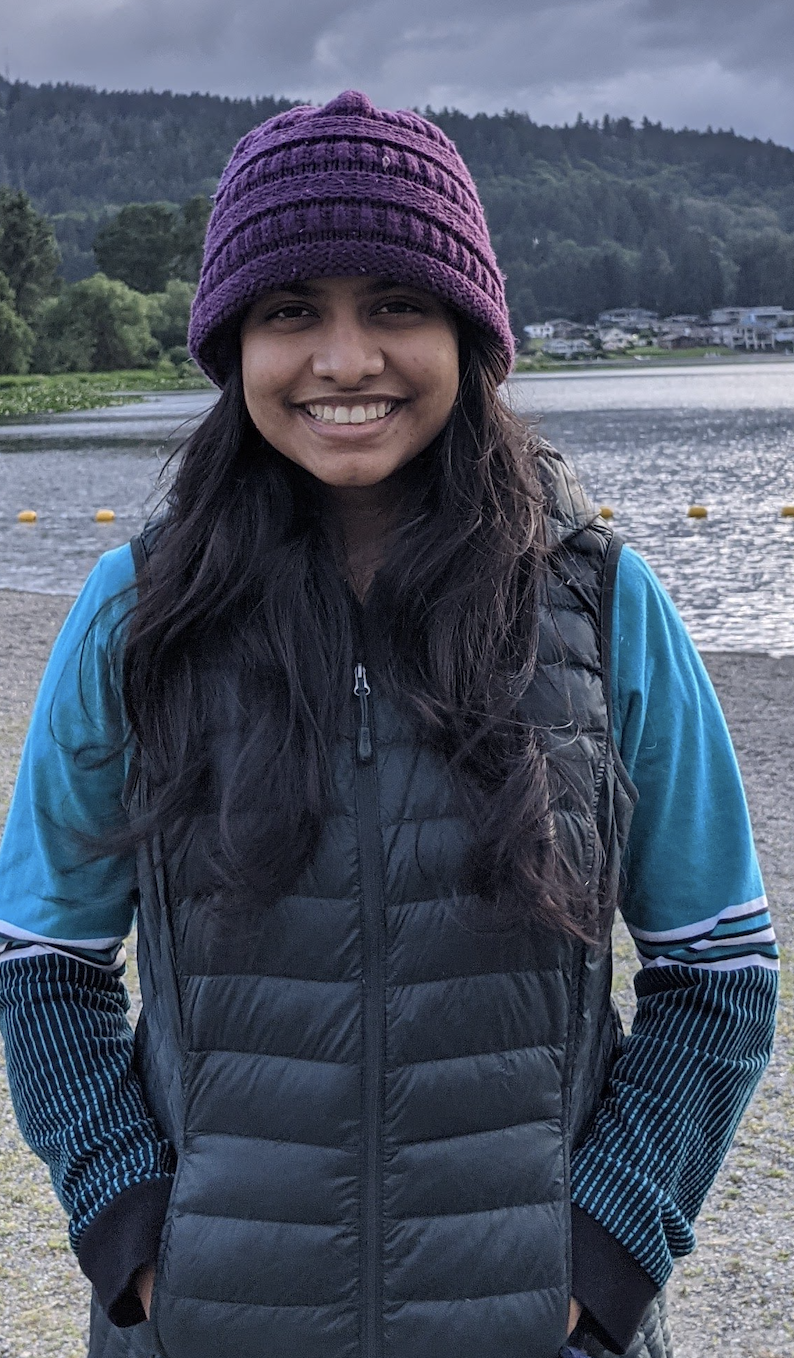
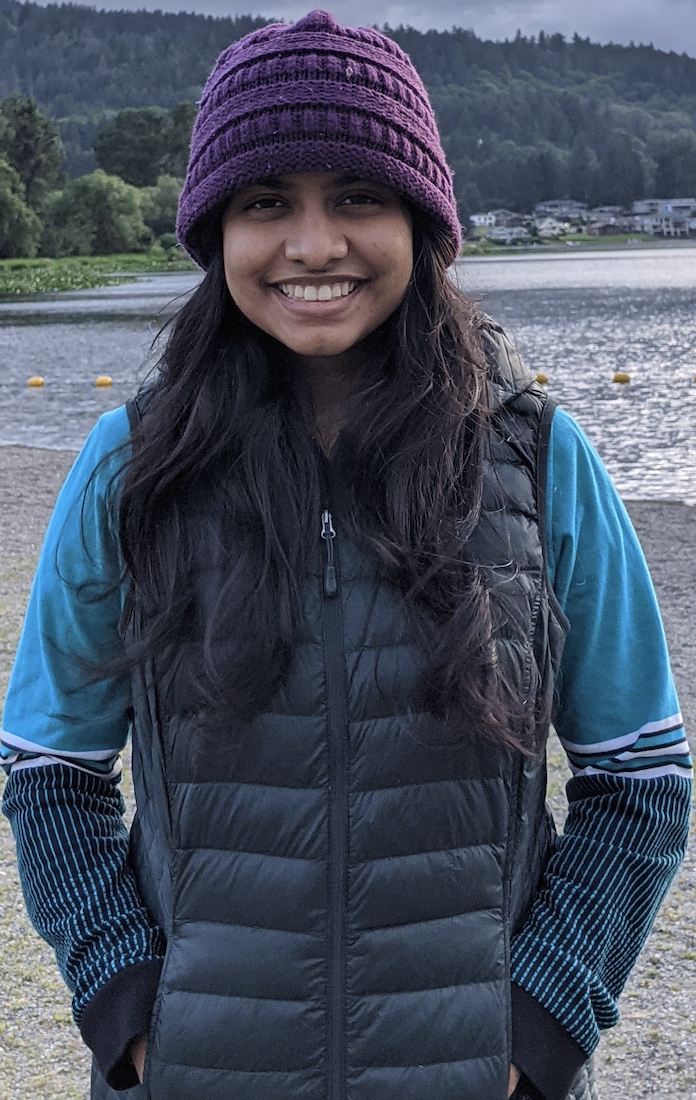
update

diff --git a/projects.md b/projects.md
@@ -5,7 +5,7 @@ title: Projects
 <!--As you might have figured out by now, most research papers are hard to follow (read: boring). So, in this part of my webpage, I try to provide short blog articles explaining my research work without too much technical detail. The goal is bring out the main ideas in the paper and share some thoughts beyond those conveyed in the paper (to be updated soon!).
 
 Below, I list my research projects and associated blog posts, with the most recent one first. -->
-* <u>Soundarya Ramesh</u>, Rui Xiao, Anindya Maiti, Jong Taek Lee, Harini Ramprasad, Ananda Kumar, Murtuza Jadliwala and Jun Han. **Acoustics to the Rescue: Physical Key Inference Attack Revisited** <i>(USENIX Security'21)</i>
+* <u>Soundarya Ramesh</u>, Rui Xiao, Anindya Maiti, Jong Taek Lee, Harini Ramprasad, Ananda Kumar, Murtuza Jadliwala and Jun Han. **Acoustics to the Rescue: Physical Key Inference Attack Revisited** <i>(USENIX Security 2021)</i>
 	<div>
     <a href="{{ site.baseurl }}/papers/sec21fall_ramesh.pdf">
 		<i class="fa fa-file-pdf-o"></i></a>
@@ -14,9 +14,9 @@ Below, I list my research projects and associated blog posts, with the most rece
     <a href="https://www.youtube.com/watch?v=hr_KW0_waEU">
    		<i class="fa fa-youtube-play"></i></a>
 	<span style="font-size:80%">Video</span>
-	</div><br>
-* <u>Soundarya Ramesh</u>, Harini Ramprasad and Jun Han. **Listen to Your Key: Towards Acoustics-based Physical Key Inference**.
-<br><i style="font-size:100%">In the Proceedings of 21<sup>st</sup> International Workshop on Mobile Computing Systems and Applications (HotMobile 2020)</i>
+	</div> 
+	<i>  </i>
+* <u>Soundarya Ramesh</u>, Harini Ramprasad and Jun Han. **Listen to Your Key: Towards Acoustics-based Physical Key Inference** <i style="font-size:100%">(HotMobile 2020)</i>
 	<div>
     <a href="{{ site.baseurl }}/papers/spikey_hotmobile.pdf">
 		<i class="fa fa-file-pdf-o"></i></a>
@@ -29,8 +29,7 @@ Below, I list my research projects and associated blog posts, with the most rece
 <i>*Our work got featured in <a href="https://cacm.acm.org/news/246744-picking-locks-with-audio-technology/fulltext">ACM News</a>,
 <a href="https://www.forbes.com/sites/daveywinder/2020/08/22/how-hackers-use-sound-to-unlock-the-secrets-of-your-front-door-key-spikey-singapore-university-research/#135f0f905f9f">Forbes</a>, <a href="https://www.schneier.com/blog/archives/2020/08/copying_a_key_b.html">Schneier's Blog<a>, <a href="https://news.ycombinator.com/item?id=24172385">Hacker News</a>, <a href="https://yro.slashdot.org/story/20/08/18/2144252/researchers-can-duplicate-keys-from-the-sounds-they-make-in-locks">Slashdot</a>,  <a href="https://mashable.com/article/spikey-house-keys-listening-smartphone/">Mashable</a> and many more.*
 <br>
-* <u>Soundarya Ramesh</u>, Thomas Pathier and Jun Han. **SoundUAV: Towards Delivery Drone Authentication via Acoustic Noise Fingerprinting**.
-<br><i>In the Proceedings of 5<sup>th</sup> ACM Workshop on Micro Aerial Vehicle Networks, Systems, and Applications (DroNet 2019)</i>
+* <u>Soundarya Ramesh</u>, Thomas Pathier and Jun Han. **SoundUAV: Towards Delivery Drone Authentication via Acoustic Noise Fingerprinting** <i>(DroNet 2019)</i>
 	<div>
     <a href="{{ site.baseurl }}/papers/sounduav_dronet.pdf">
 		<i class="fa fa-file-pdf-o"></i></a>
@@ -38,8 +37,7 @@ Below, I list my research projects and associated blog posts, with the most rece
 	</div>
 <span>&#42;</span><i>Won best poster runner-up award at MobiSys'19</i><span>&#42;</span>
 <br>
-* Shiqi Shen, Shweta Shinde, <u>Soundarya Ramesh</u>, Prateek Saxena and Abhik Roychoudhury. **Neuro-Symbolic Execution: Augmenting Symbolic Execution with Neural Constraints**. 
-<br><i>In the Proceedings of the 26<sup>th</sup> Annual Network and Distributed System Security Symposium (NDSS 2019) </i>
+* Shiqi Shen, Shweta Shinde, <u>Soundarya Ramesh</u>, Prateek Saxena and Abhik Roychoudhury. **Neuro-Symbolic Execution: Augmenting Symbolic Execution with Neural Constraints** <i>(NDSS 2019) </i>
 	<div>
     <a href="{{ site.baseurl }}/papers/neuex_ndss.pdf">
 		<i class="fa fa-file-pdf-o"></i></a>

diff --git a/index.md b/index.md
@@ -3,7 +3,7 @@ layout: default
 title: Home
 ---
  Hi there! 
-<img src='../files/photo.jpg' style='float:right;width:30%;padding-left:20px'/>
+<img src='../files/photo.png' style='float:right;width:40%;padding-left:15px'/>
 
 I'm Soundarya Ramesh, a fourth year Ph.D. student in Computer Science at the [National University of Singapore](http://www.nus.edu.sg), working with [Prof. Jun Han](https://www.comp.nus.edu.sg/~junhan/) and [Prof. Chan Mun Choon](https://www.comp.nus.edu.sg/~chanmc/). My research interests revolve around the security and privacy of cyber-physical systems.
 
@@ -16,7 +16,7 @@ I'm Soundarya Ramesh, a fourth year Ph.D. student in Computer Science at the [Na
 
 
 **Contact**
-* E-mail : sramesh AT comp DOT nus DOT edu DOT sg
+* E-mail : sramesh@comp.nus.edu.sg
 <!--* PGP Key : [My Public Key](../pub-key.md) -->
 
 <!--Apart from research, I'm very interested in -->
